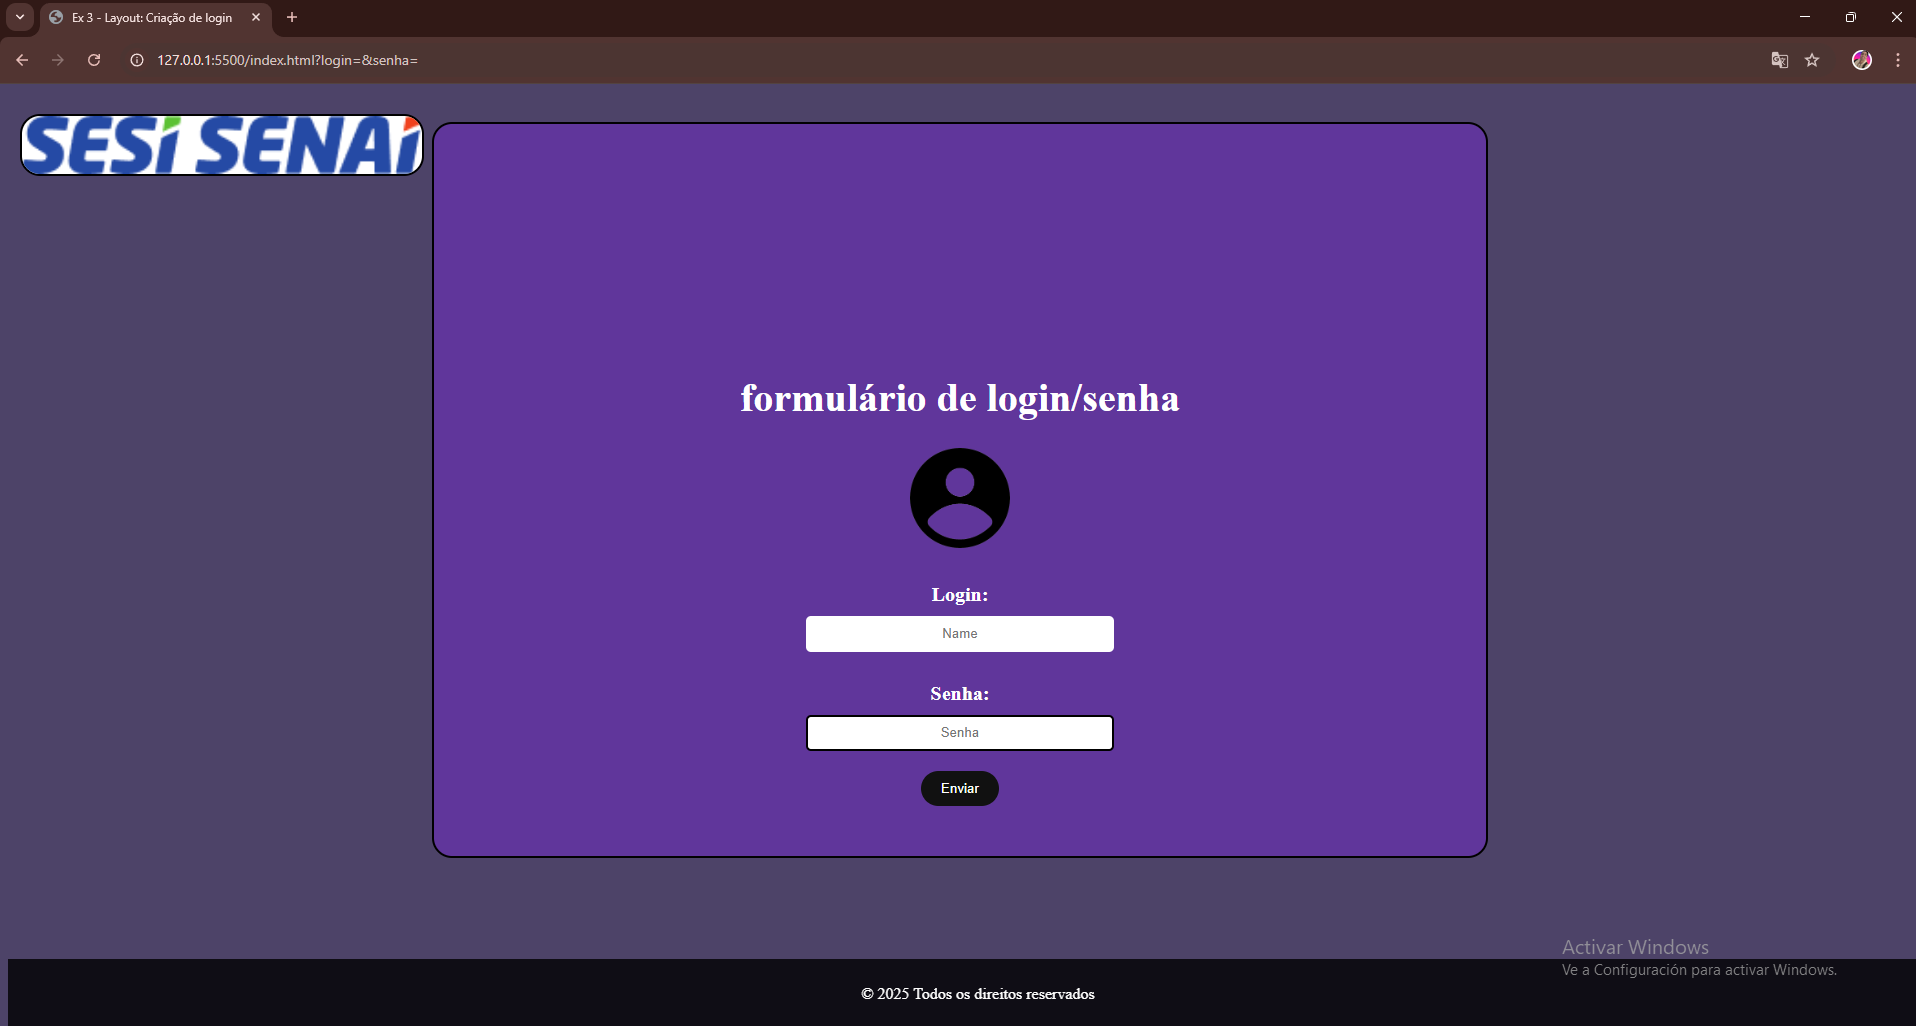
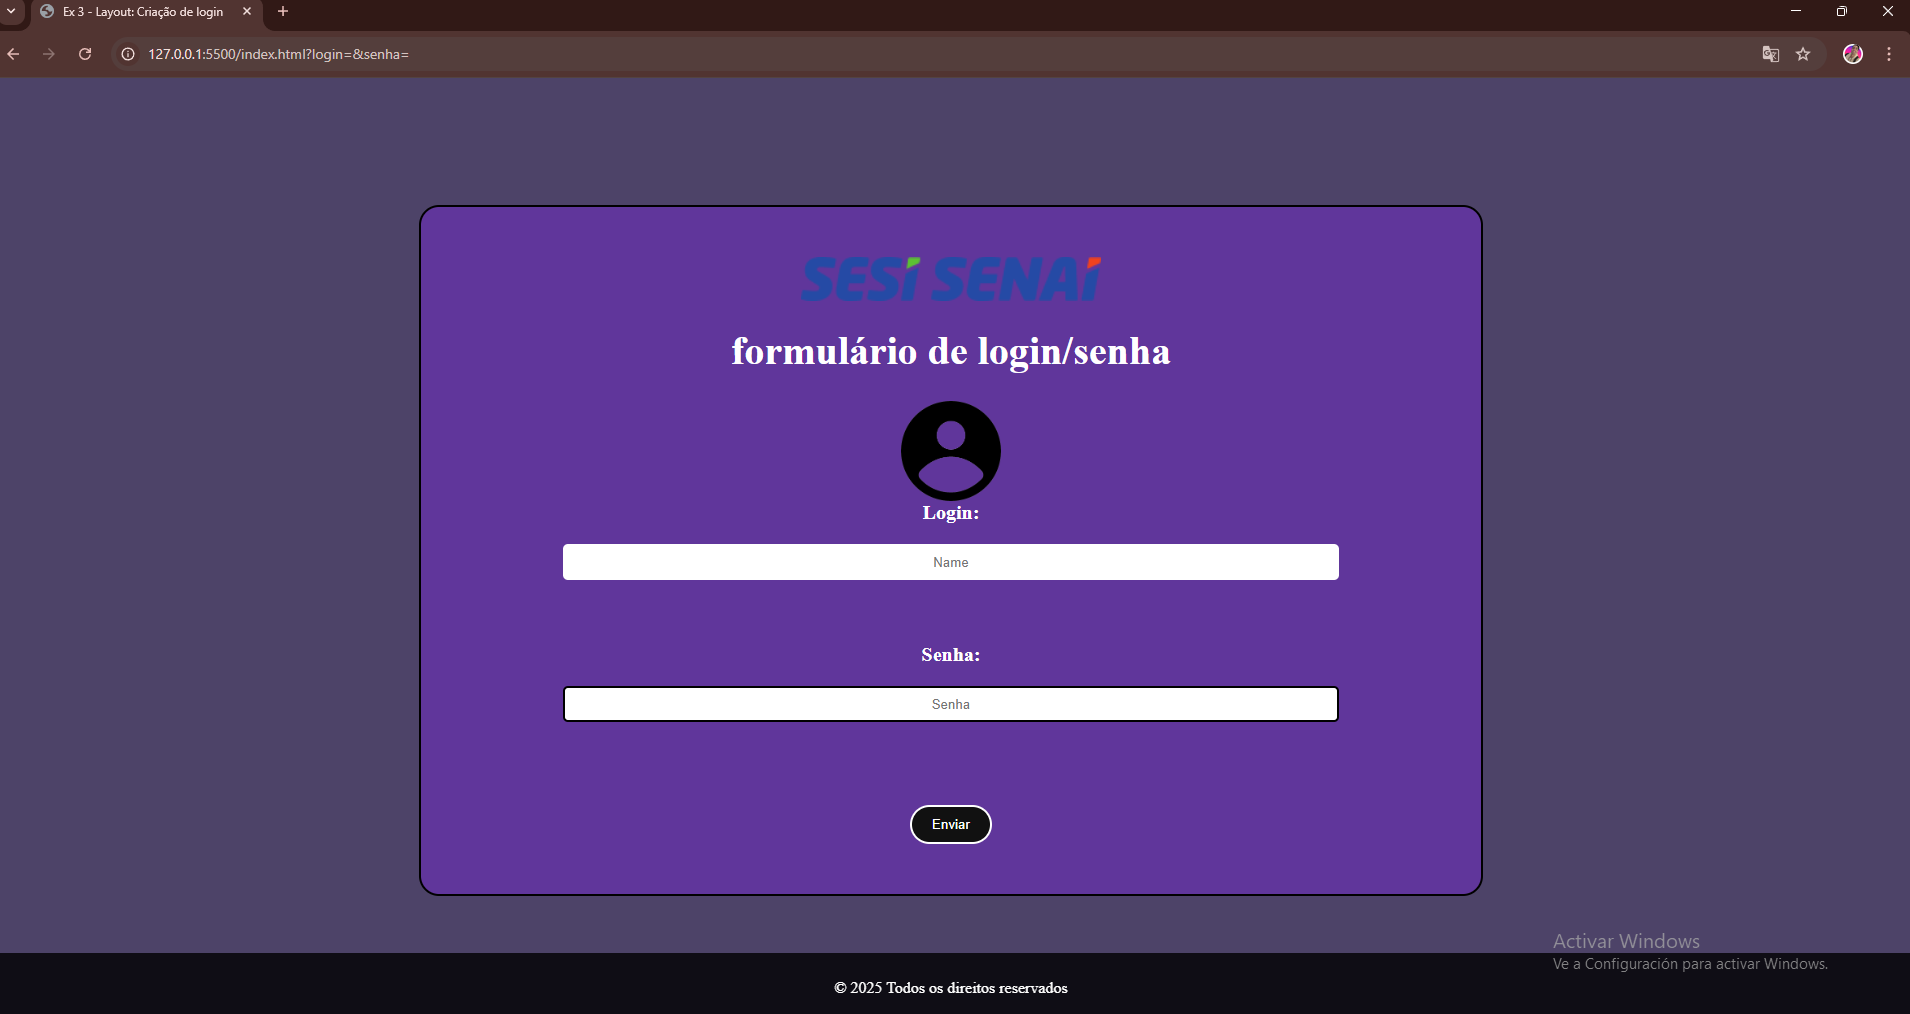
modificação do href do css
modificação do href do css

Changed region(s): [[0.0, 0.0, 1.0, 0.8866], [0.0, 0.9172, 1.0, 1.0], [0.4016, 0.2446, 0.5869, 0.3057]]

diff --git a/index.html b/index.html
@@ -3,7 +3,7 @@
 <head>
     <meta charset="UTF-8">
     <meta name="viewport" content="width=device-width, initial-scale=1.0">
-    <link rel="stylesheet" href="/assets/Css/style.css">
+    <link rel="stylesheet" href="/assets/Css/Grid.css">
     <title>Ex 3 - Layout: Criação de login</title>
 </head>
 <body>
